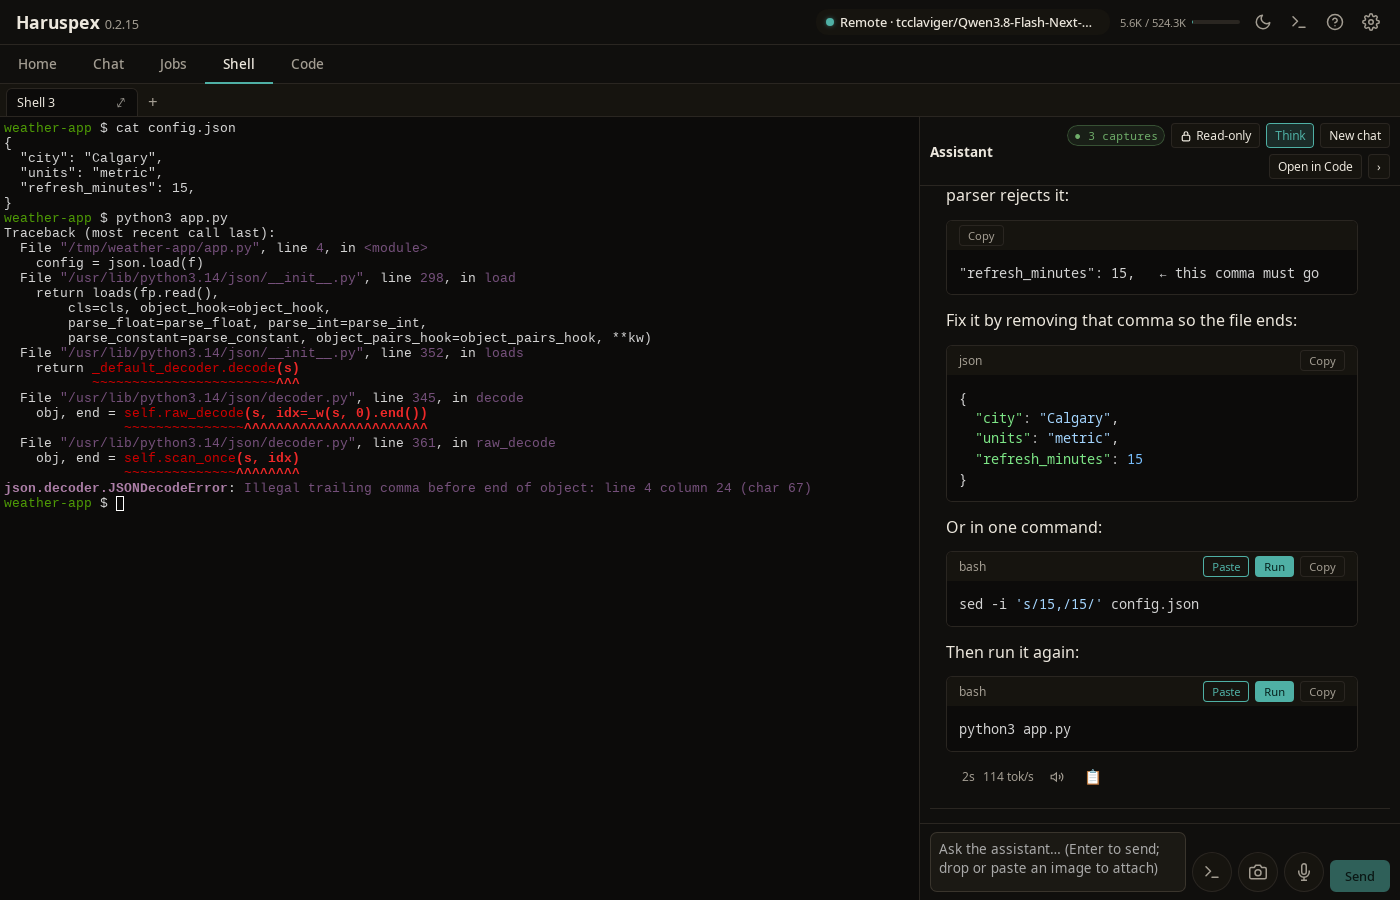
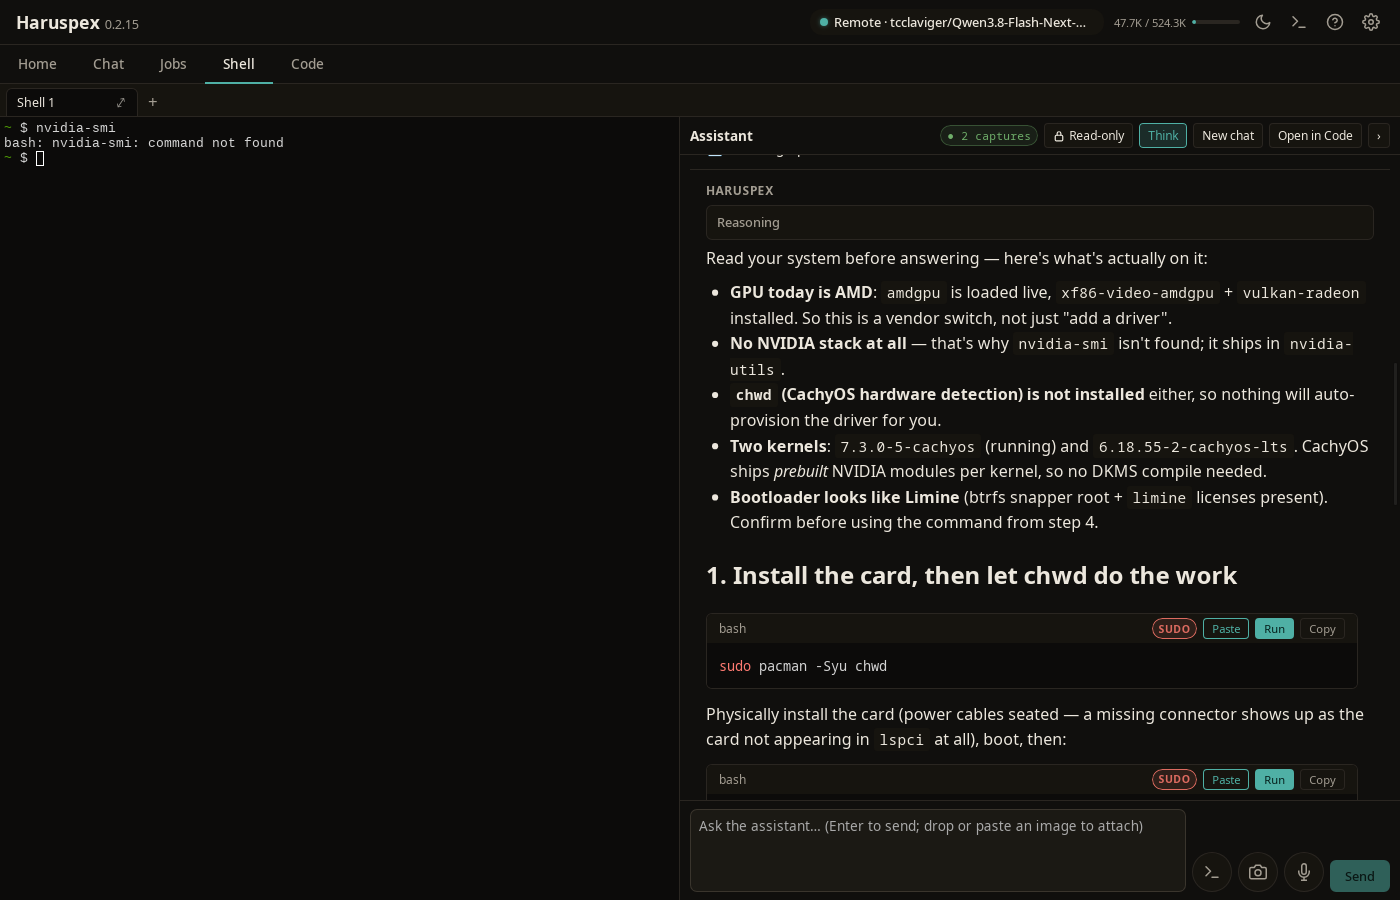
docs(readme): show a system question in the Shell screenshot (#920)

diff --git a/README.md b/README.md
@@ -1,11 +1,11 @@
 # Haruspex
 
-|                                                                                                                           |                                                                                                       |
-| ------------------------------------------------------------------------------------------------------------------------- | ----------------------------------------------------------------------------------------------------- |
-| [![Chat: a researched answer with its searches and sources](docs/screenshots/chat.png)](docs/screenshots/chat.png)        | [![Code: a bug found, fixed and checked](docs/screenshots/code.png)](docs/screenshots/code.png)       |
-| **Chat** searches the web, reads the pages and answers with sources and pictures.                                         | **Code** reads the project, edits it and runs it to check the fix.                                    |
-| [![Shell: the assistant explaining an error beside the terminal](docs/screenshots/shell.png)](docs/screenshots/shell.png) | [![Jobs: a scheduled research job and its run](docs/screenshots/jobs.png)](docs/screenshots/jobs.png) |
-| **Shell** puts an assistant beside a real terminal. It reads your output and suggests commands you run with a click.      | **Jobs** save a chain of prompts and run them on demand or on a schedule.                             |
+|                                                                                                                                               |                                                                                                       |
+| --------------------------------------------------------------------------------------------------------------------------------------------- | ----------------------------------------------------------------------------------------------------- |
+| [![Chat: a researched answer with its searches and sources](docs/screenshots/chat.png)](docs/screenshots/chat.png)                            | [![Code: a bug found, fixed and checked](docs/screenshots/code.png)](docs/screenshots/code.png)       |
+| **Chat** searches the web, reads the pages and answers with sources and pictures.                                                             | **Code** reads the project, edits it and runs it to check the fix.                                    |
+| [![Shell: the assistant answering how to install NVIDIA drivers beside the terminal](docs/screenshots/shell.png)](docs/screenshots/shell.png) | [![Jobs: a scheduled research job and its run](docs/screenshots/jobs.png)](docs/screenshots/jobs.png) |
+| **Shell** puts an assistant beside a real terminal. It reads your output and your system, and suggests commands you run with a click.         | **Jobs** save a chain of prompts and run them on demand or on a schedule.                             |
 
 <sub>Gorilla photo in the Chat screenshot: Ad Meskens, CC BY-SA 3.0, via Wikimedia Commons.</sub>
 
